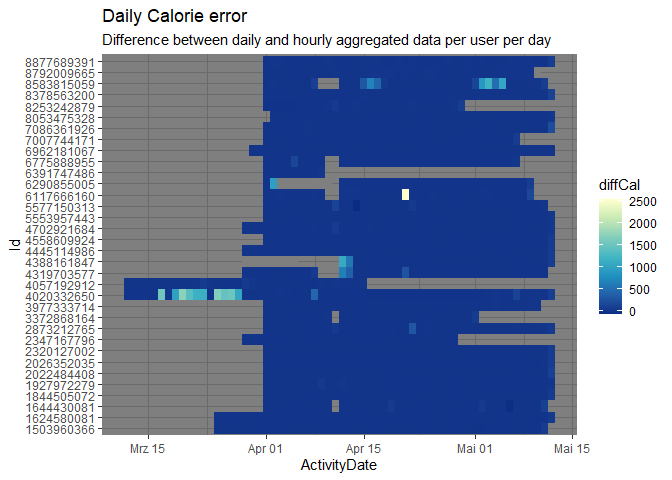
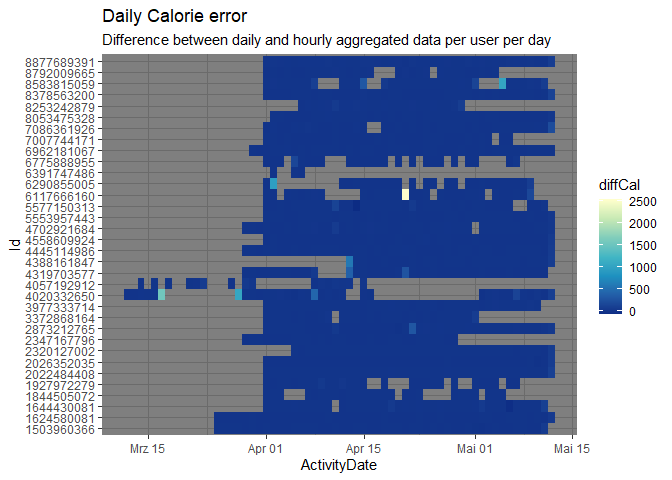
update the data manipulation summary

diff --git a/1_Data_Cleaning_and_manipulation.md b/1_Data_Cleaning_and_manipulation.md
@@ -81,7 +81,8 @@ Data summary
 | SedentaryMinutes         |         0 |             1 | 1001.35 |  304.17 |   0 |  734.00 | 1062.00 |  1246.00 |  1440.00 |
 | Calories                 |         0 |             1 | 2294.81 |  725.53 |   0 | 1820.00 | 2129.00 |  2781.00 |  4900.00 |
 
-We must note the inconsistency between the name of the columns
+When comparing different kinds of activities, we must take into account
+the inconsistency between the name of the columns
 ModeratelyActiveDistance and FairlyActiveMinutes, which correspond to
 the same intensity category.
 
@@ -430,20 +431,23 @@ available dates for now, because there is no need for the data to be
 exactly simultaneous.
 
 Nevertheless, I will cut out the 9 days of **zero** calorie expenditure,
-since that is physically very unlikely and indicates an artifact. We
-also check there is only one record per date per Id. Conversely, we
-filter out any record with fewer than 15 SedentaryMinutes. It is hard to
-think of someone who had no rest at all during the day. Our final sanity
-check for this data set is to sum the total number of minutes of all
-activity types, and check that it is not greater than 1440, which is the
-total number of minutes in a date.
+since that is physically very unlikely and indicates an artifact. As
+well as days with 0 total Steps, which would indicate that someone just
+left their device at home. We discard duplicates check there is only one
+record per date per Id. We filter out any record with fewer than 15
+SedentaryMinutes. It is hard to think of someone who had no rest at all
+during the day. Conversely, I get rid of all days with more than
+(1440-15) sedentary minutes, (1440 is the total number of minutes in a
+day). Our final sanity check for this data set is to sum the total
+number of minutes of all activity types, and check that it is not
+greater than 1440, which is the total number of minutes in a day.
 
 ``` r
 #filter zero calorie expenditure
-dailyActivity <- dailyActivity %>% filter(Calories > 1)
+dailyActivity <- dailyActivity %>% filter(Calories > 1, TotalSteps > 1)
 
-#filter less than 15 sedentary minutes
-dailyActivity <- dailyActivity %>% filter(SedentaryMinutes > 15)
+#filter less than 15 sedentary minutes 
+dailyActivity <- dailyActivity %>% filter(between(SedentaryMinutes, 15,1435))
 
 #Check that there are no Id, Date duplicate records
 get_dupes(dailyActivity, Id, ActivityDate)
@@ -515,6 +519,10 @@ sleepDay %>% filter(TotalMinutesAsleep >= 1440, TotalTimeInBed >= 1440)
     ## # A tibble: 0 x 5
     ## # ... with 5 variables: Id <chr>, SleepDay <dttm>, TotalSleepRecords <dbl>,
     ## #   TotalMinutesAsleep <dbl>, TotalTimeInBed <dbl>
+
+``` r
+sleepDay <- sleepDay %>% group_by(Id) %>% filter(n()>3)
+```
 
 #### Checking the date time in the hourly data
 
@@ -623,7 +631,7 @@ between the daily and the hourly data.
     ## # A tibble: 1 x 20
     ##   Id         ActivityD~1 Total~2 Total~3 Track~4 Logge~5 VeryA~6 Moder~7 Light~8
     ##   <chr>      <date>        <dbl>   <dbl>   <dbl>   <dbl>   <dbl>   <dbl>   <dbl>
-    ## 1 8583815059 2016-05-03    12015    9.37    9.37       0       0       0       0
+    ## 1 8583815059 2016-05-05    12427    9.69    9.69       0       0       0    1.18
     ## # ... with 11 more variables: SedentaryActiveDistance <dbl>,
     ## #   VeryActiveMinutes <dbl>, FairlyActiveMinutes <dbl>,
     ## #   LightlyActiveMinutes <dbl>, SedentaryMinutes <dbl>, Calories <dbl>,
@@ -663,7 +671,7 @@ not the heartrate, which determines intensity. Therefore, we will filter
 them out:
 
 ``` r
-dailyActivity <- dailyActivity %>% mutate(ActiveDistances = VeryActiveDistance + ModeratelyActiveDistance + LightActiveDistance + SedentaryActiveDistance, differencia = TotalDistance - ActiveDistances)  %>%  filter(differencia < 1) %>% select(-ActiveDistances)
+dailyActivity <- dailyActivity %>% mutate(ActiveDistances = VeryActiveDistance + ModeratelyActiveDistance + LightActiveDistance + SedentaryActiveDistance, differencia = TotalDistance - ActiveDistances)  %>%  filter(differencia < 1) %>% select(-differencia)
 ```
 
 I do not show this but this filter has the advantage of dropping more of
@@ -695,7 +703,7 @@ filter(dailyActivity, filter_vector, VeryActiveMinutes == 0)
     ## #   LightActiveDistance <dbl>, SedentaryActiveDistance <dbl>,
     ## #   VeryActiveMinutes <dbl>, FairlyActiveMinutes <dbl>,
     ## #   LightlyActiveMinutes <dbl>, SedentaryMinutes <dbl>, Calories <dbl>,
-    ## #   differencia <dbl>
+    ## #   ActiveDistances <dbl>
 
 ``` r
 filter_vector <- xor(dailyActivity$ ModeratelyActiveDistance, dailyActivity$ FairlyActiveMinutes)
@@ -709,7 +717,7 @@ filter(dailyActivity, filter_vector, FairlyActiveMinutes == 0)
     ## #   LightActiveDistance <dbl>, SedentaryActiveDistance <dbl>,
     ## #   VeryActiveMinutes <dbl>, FairlyActiveMinutes <dbl>,
     ## #   LightlyActiveMinutes <dbl>, SedentaryMinutes <dbl>, Calories <dbl>,
-    ## #   differencia <dbl>
+    ## #   ActiveDistances <dbl>
 
 ``` r
 filter_vector <- xor(dailyActivity$LightActiveDistance, dailyActivity$LightlyActiveMinutes)
@@ -723,7 +731,7 @@ filter(dailyActivity, filter_vector, LightlyActiveMinutes == 0)
     ## #   LightActiveDistance <dbl>, SedentaryActiveDistance <dbl>,
     ## #   VeryActiveMinutes <dbl>, FairlyActiveMinutes <dbl>,
     ## #   LightlyActiveMinutes <dbl>, SedentaryMinutes <dbl>, Calories <dbl>,
-    ## #   differencia <dbl>
+    ## #   ActiveDistances <dbl>
 
 ``` r
 filter_vector <- xor(dailyActivity$SedentaryActiveDistance, dailyActivity$SedentaryMinutes)
@@ -737,7 +745,7 @@ filter(dailyActivity, filter_vector, SedentaryMinutes == 0)
     ## #   LightActiveDistance <dbl>, SedentaryActiveDistance <dbl>,
     ## #   VeryActiveMinutes <dbl>, FairlyActiveMinutes <dbl>,
     ## #   LightlyActiveMinutes <dbl>, SedentaryMinutes <dbl>, Calories <dbl>,
-    ## #   differencia <dbl>
+    ## #   ActiveDistances <dbl>
 
 Our data is consistent in this way. There is no distance that is
 traveled in zero time, which would be impossible.
@@ -799,7 +807,7 @@ The aggregated minute data is basically identical to the hour data,
 except for 6 rows that are present in the hourly data. They are from the
 last day of the data range.
 
-### Hear rate data cleaning
+### Heart rate data cleaning
 
 No duplicates
 
@@ -821,52 +829,24 @@ the number per day, and even in the time resolution.
 
 ![](1_Data_Cleaning_and_manipulation_files/figure-gfm/hear%20rate%20hour-1.png)<!-- -->
 
-The heart rate data can be useful to explore the usage and excercise
-habits for a subset of users. \## Plotting a few explorations
-
-What’s the relationship between steps taken in a day and sedentary
-minutes? How could this help inform the customer segments that we can
-market to? E.g. position this more as a way to get started in walking
-more? Or to measure steps that you’re already taking?
+The heart rate data can be useful to explore the usage and exercise
+habits for a subset of users. I think this data is more useful in
+combination with other information. Therefore, we will aggregate this
+data frame into minute-level by taking the mean within a minute and keep
+it as such.
 
 ``` r
-ggplot(data=dailyActivity, aes(x=TotalSteps, y=SedentaryMinutes)) + geom_point() + theme_bw()
+#Take out the seconds info
+second(heartrate_seconds$Time) <- 0
+
+#Group and Summarise
+heartrate_minutes <- heartrate_seconds %>% group_by(Id, Time) %>% summarise(BPM = mean(Value))
+
+minuteAct_BPM <- inner_join(minuteActivity, heartrate_minutes, by = join_by(Id, ActivityMinute == Time))
+##Join with minute activity, 
+rm(heartrate_seconds)
 ```
 
-![](1_Data_Cleaning_and_manipulation_files/figure-gfm/unnamed-chunk-8-1.png)<!-- -->
-
-What’s the relationship between minutes asleep and time in bed? You
-might expect it to be almost completely linear - are there any
-unexpected trends?
-
-``` r
-ggplot(data=sleepDay, aes(x=TotalMinutesAsleep, y=TotalTimeInBed)) + geom_point() + theme_bw()
-```
-
-![](1_Data_Cleaning_and_manipulation_files/figure-gfm/unnamed-chunk-9-1.png)<!-- -->
-
-![](1_Data_Cleaning_and_manipulation_files/figure-gfm/velocities-1.png)<!-- -->
-
-This is at the same time a sanity check (no one is travelling at 100
-km/h, no sedentary velocity is significantly above 0) and an overview of
-the kind of activities people are doing. A few jog. Most walk (or
-swim?). The zero velocities in all categories apart from sedentary are
-probably people on a treadmill or stationary bike, or lifting weights.
-Lower than average velocities could be people hiking, swimming or going
-upstairs: intense activities that do not cover much distance.
-
-What could these trends tell you about how to help market this product?
-Or areas where you might want to explore further?
-
-Note that there were more participant Ids in the daily activity dataset
-that have been filtered out using merge. Consider using ‘outer_join’ to
-keep those in the dataset.
-
-Now you can explore some different relationships between activity and
-sleep as well. For example, do you think participants who sleep more
-also take more steps or fewer steps per day? Is there a relationship at
-all? How could these answers help inform the marketing strategy of how
-you position this new product?
-
-This is just one example of how to get started with this data - there
-are many other files and questions to explore as well!
+Joining with the minute activity will lose a lot of the minute level
+data, so it cannot be used for all timespans but it should still be a
+good amount of data.
